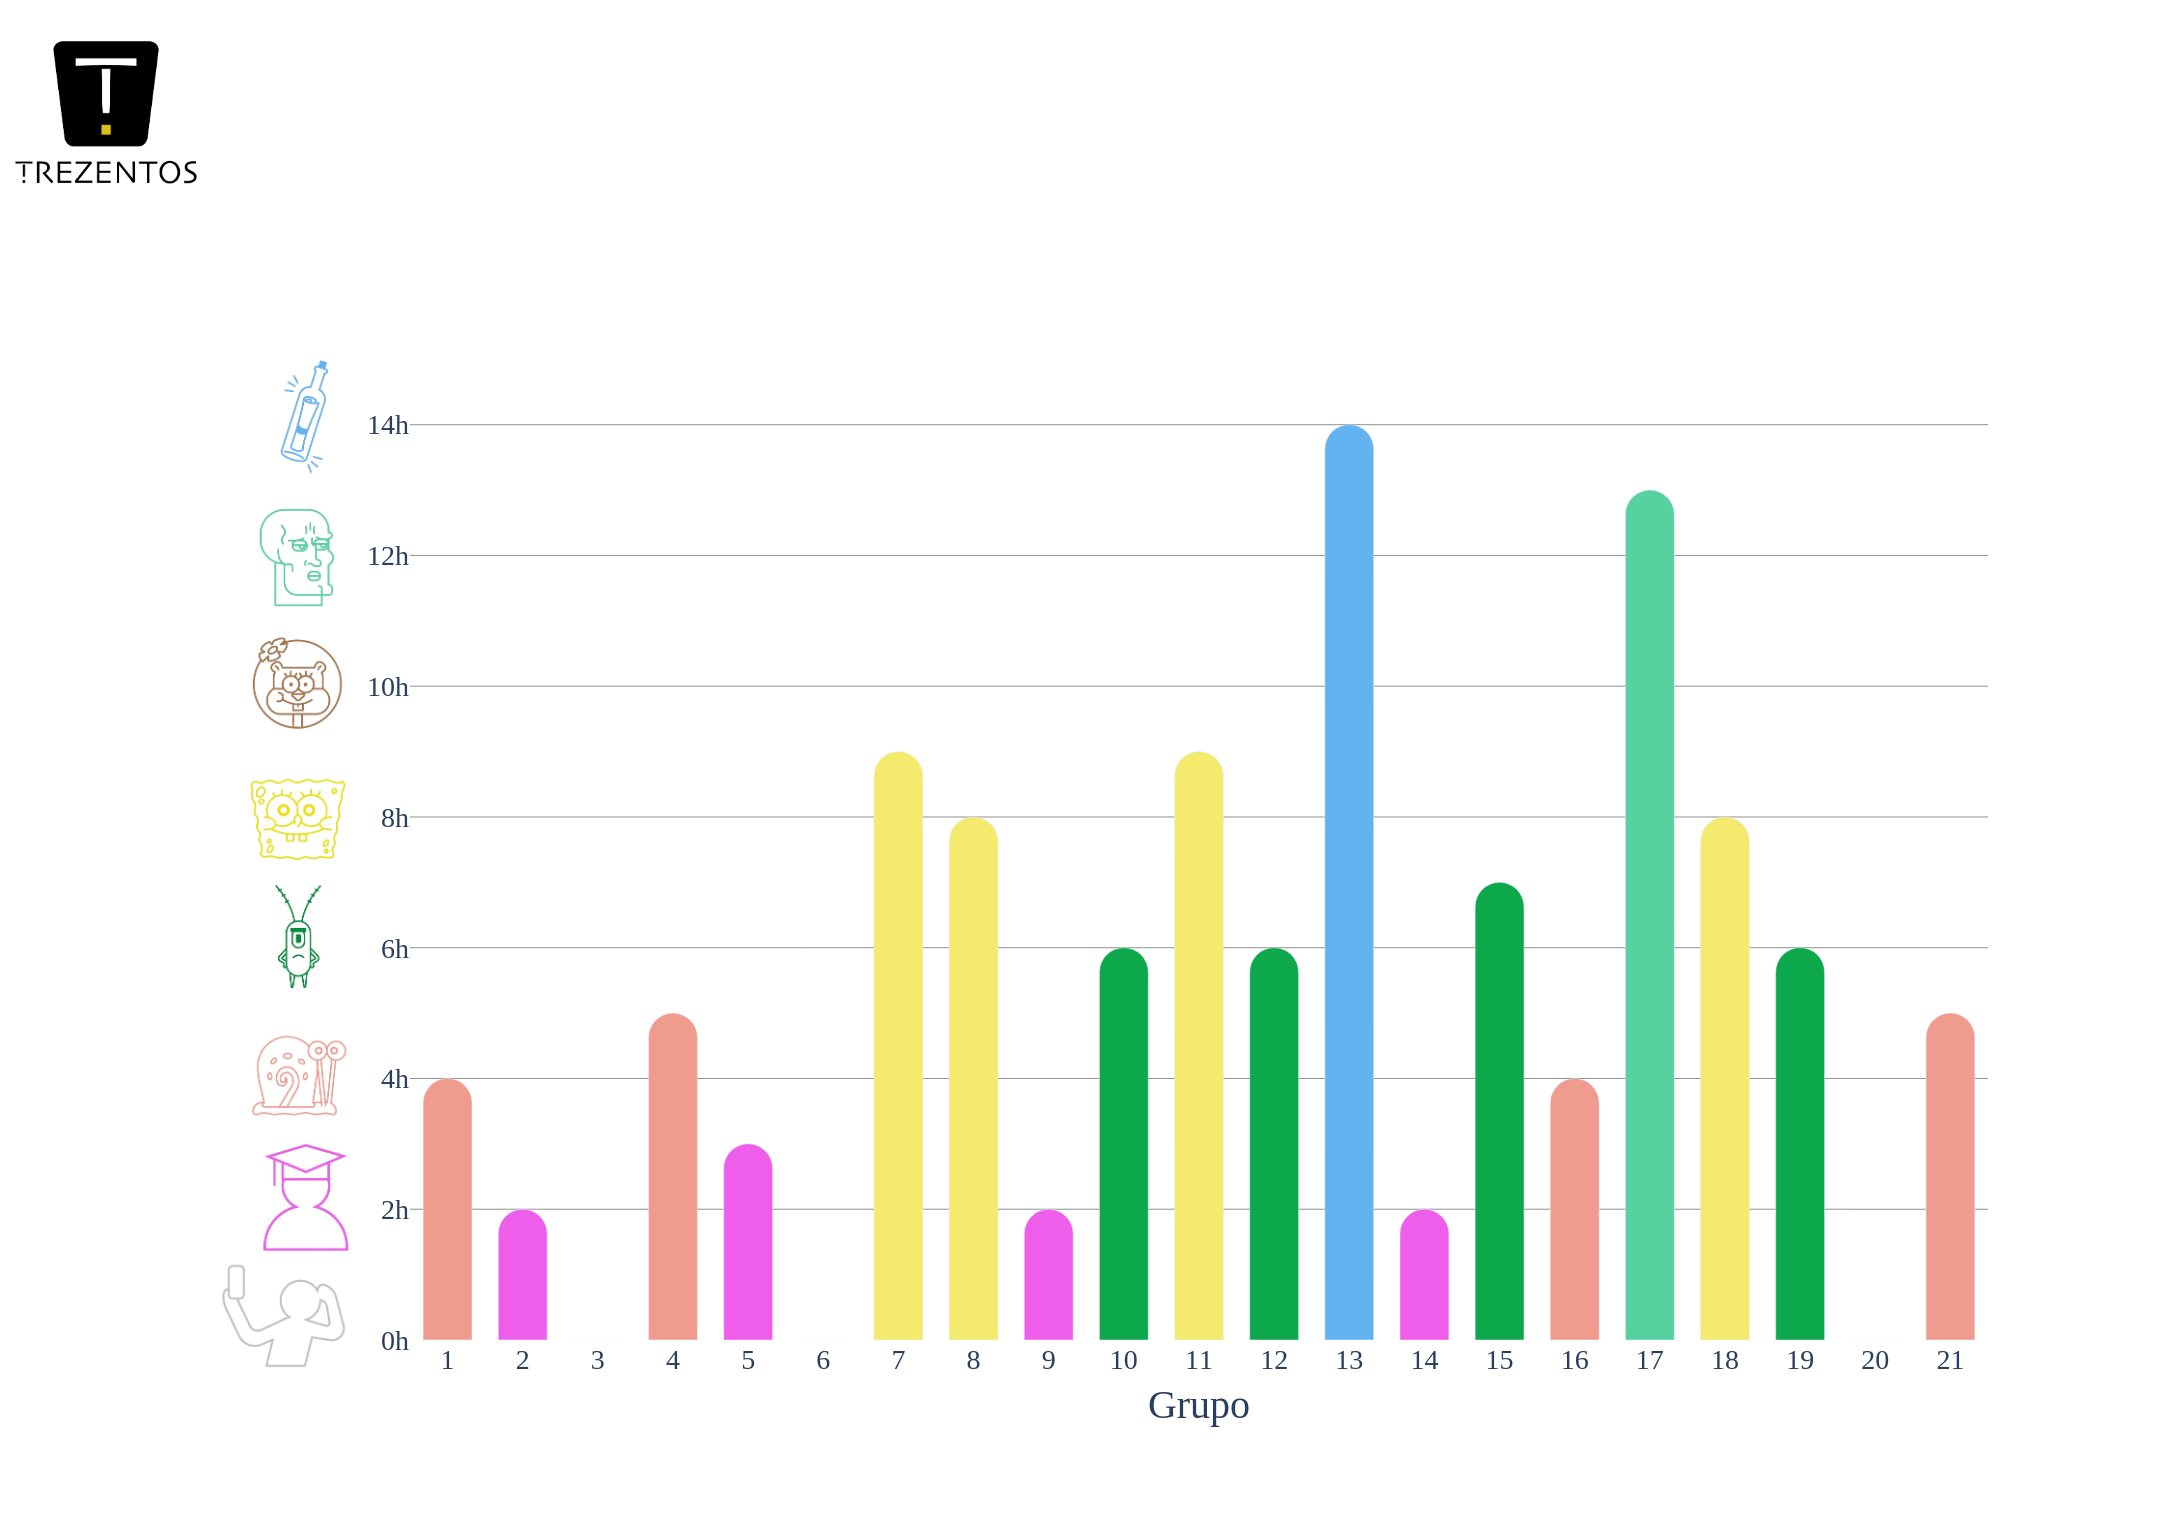
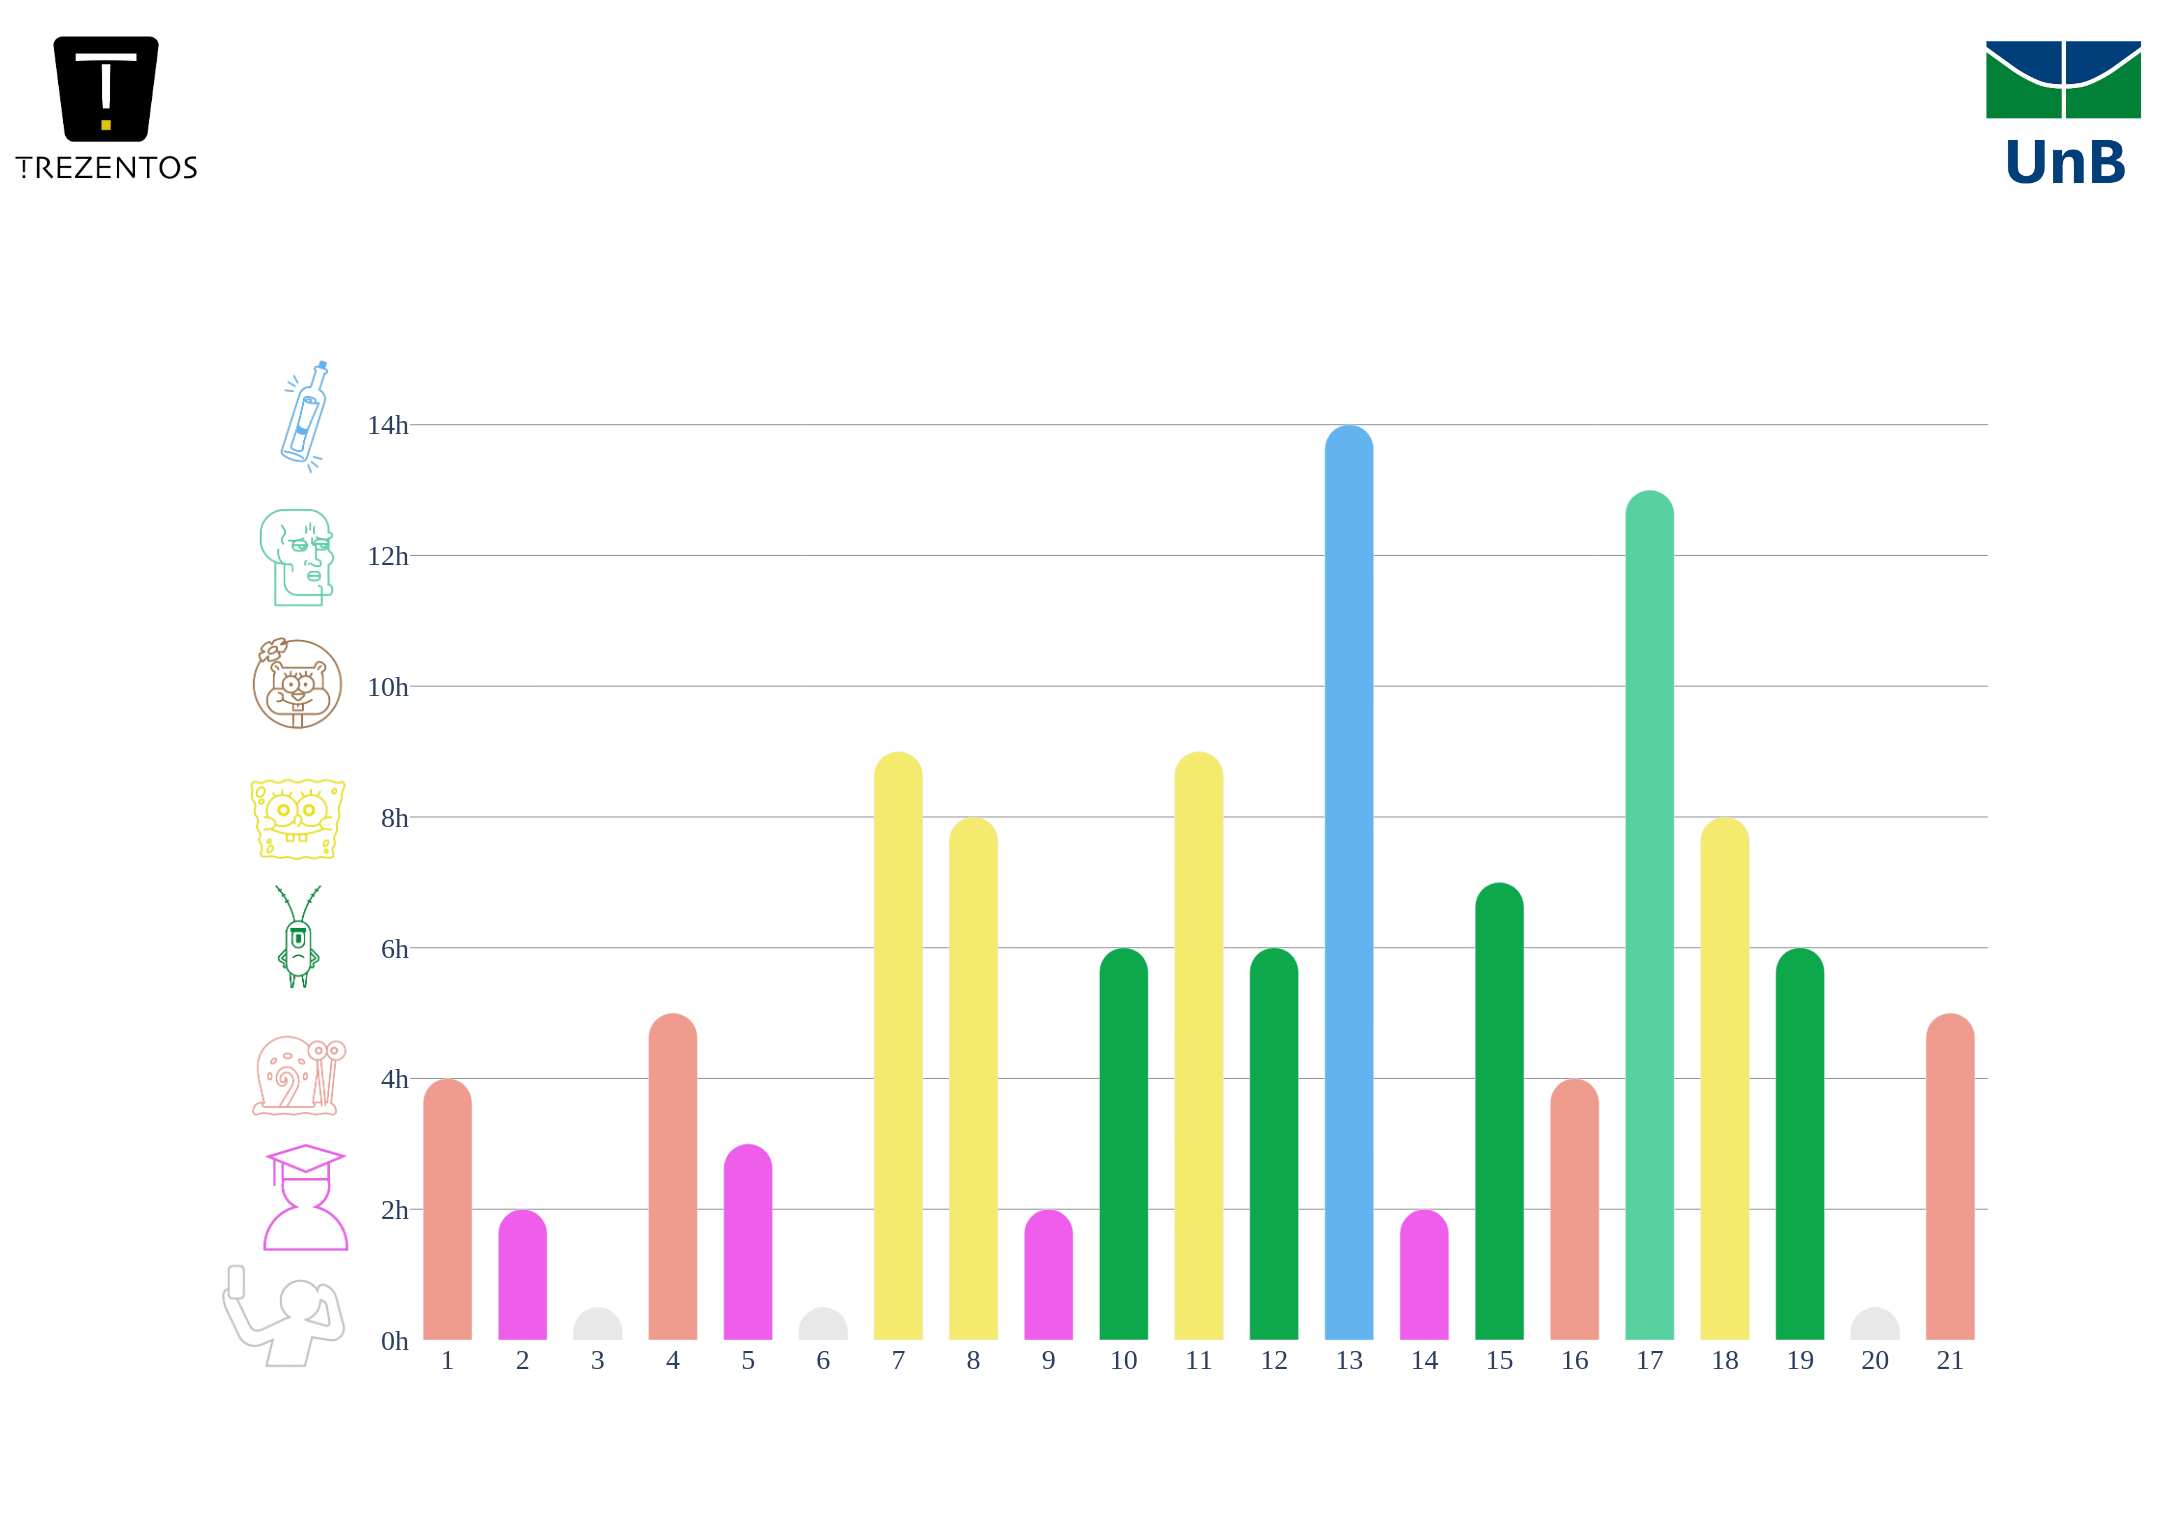
.

diff --git a/gerando_grafico_base.py b/gerando_grafico_base.py
@@ -14,6 +14,12 @@ porcent_graf_dias = (dia_atual / dias_totais) * 30
 x_data = df.iloc[:, 0].tolist()  # Primeira coluna
 y_data = df.iloc[:, 1].tolist()  # Segunda coluna
 
+#caso o valor do grupo seja igual a zero
+# Verifique quais elementos são iguais a 0
+for i in range(len(y_data)):
+    if y_data[i] == 0:
+        y_data[i] += 0.5
+
 # Definir a largura e a altura da figura
 largura = 2173*resol  # Defina o valor desejado
 altura = 1524*resol  # Defina o valor desejado
@@ -47,7 +53,7 @@ fig = go.Figure(data=go.Bar(x=x_data, y=y_data, marker=dict(color=cores, cornerr
 fig.update_layout(
     plot_bgcolor='white',
 
-    xaxis_title="Grupo",
+    xaxis_title="",
     yaxis_title="",
     title="",
     yaxis=dict(range=[0, 14.5],
@@ -69,16 +75,34 @@ fig.update_layout(
 )
 
 # Adicionar as imagens
+
+
+# Obtém o diretório atual do script
+current_directory = os.path.dirname(os.path.abspath(__file__))
+
+# Constrói os caminhos relativos à pasta "bob_esponja"
+path_imagem_0hour = os.path.join(current_directory, 'Bob_esponja_assets', '0hours.png')
+path_imagem_2hour = os.path.join(current_directory, 'Bob_esponja_assets', '2hours.png')
+path_imagem_4hour = os.path.join(current_directory, 'Bob_esponja_assets', '4hours.png')
+path_imagem_6hour = os.path.join(current_directory, 'Bob_esponja_assets', '6hours.png')
+path_imagem_8hour = os.path.join(current_directory, 'Bob_esponja_assets', '8hours.png')
+path_imagem_10hour = os.path.join(current_directory, 'Bob_esponja_assets', '10hours.png')
+path_imagem_12hour = os.path.join(current_directory, 'Bob_esponja_assets', '12hours.png')
+path_imagem_14hour = os.path.join(current_directory, 'Bob_esponja_assets', '14hours.png')
+path_imagem_logounb = os.path.join(current_directory, 'demais_assets', 'logo_unb.png')
+path_imagem_logotrezentos = os.path.join(current_directory, 'demais_assets', 'trezentos.png')
+
 imagens = [
-    ("https://lh3.googleusercontent.com/u/0/drive-viewer/AKGpihZLfn-QAL8Q1_SHqkxDAerl4NSpaMrSCtUsh2-UHaOXT8cmW6YlpOC16wAgJuXPY8plRJYr7NKzQTPmv5kioWXHfbMVJawcNDc=w1175-h893", -0.12*linha_grade, -0.05),
-    ("https://lh3.googleusercontent.com/u/0/drive-viewer/AKGpihZMmgOvZYv7I-rmA68cLumTUqWM57Y0Qhf9kAlg8q2FfbByIJIWAWm_sB2AbuQuo6djW6Kvt9H51iyh8VJlHCoF8Ek0QMvGm9c=w1920-h968", -0.11*linha_grade, 0.08),
-    ("https://lh3.googleusercontent.com/u/0/drive-viewer/AKGpihYpG9zfwXVWB7Sa-E3wmQqF_XPRfsJDZjQ9Kqn4_YUPHEmklYh_jdFzxEmgS9dBd04eqRHirqXaUVbbLSVpJ6Osm8ZCUtl5FuA=w1920-h298", -0.11*linha_grade, 0.21),
-    ("https://lh3.googleusercontent.com/u/0/drive-viewer/AKGpihakNsQT-BHw26LHyERPjQW6bYUuJ2dA5p8eAzqW1G1-icnAYEi_9uOdTccUPRC010z2yGlz0ki9WNzoq2GEdmDtO0yB3PXQab8=w1920-h927", -0.115*linha_grade, 0.35),
-    ("https://lh3.googleusercontent.com/u/0/drive-viewer/AKGpihbkqmnR5NJ8nPmUl0ikwkCtxcmIrmg8-Bws4ENXc2qYxJ_HG4Qee_F6v9oJQBkXf8Pra_QGE43bJlBQ_8_qH-Da5_3hX4vxxKk=w1920-h968", -0.1115*linha_grade, 0.48),
-    ("https://lh3.googleusercontent.com/u/0/drive-viewer/AKGpihb1MnjKMi7wq4CuWidnVKHK4PI_wWq-7m1OvBIOBg1yJ32Dx6kRarXP_wG13PHQzazknuZgF35oDXa7t24UxYwmy5CI19hL9g=w1920-h968", -0.115*linha_grade, 0.62),
-    ("https://lh3.googleusercontent.com/u/0/drive-viewer/AKGpihYM70mWQfdpEeFLvs-WqnbFIhbLdIjJ-myDwSQ26ewpP9NNakzGpRGAyzOV0TeNTZeVoYKQspRjlgtWF6t85wBtybMKnnxzfb0=w1920-h968", -0.1115*linha_grade, 0.75),
-    ("https://lh3.googleusercontent.com/u/0/drive-viewer/AKGpihYhsGzTGZbVoBMshdjmCOKVJvTykFhYb-zQ8lVappNN2vhae4896hkCrfehvCqwnQkoFQCwfoAWWF4QSEhnaNDc2DUCVdnZXA=w1920-h968", -0.105*linha_grade, 0.9),
-    ("https://lh3.googleusercontent.com/u/0/drive-viewer/AKGpihZBq1w-NiUbVSw8fzE3UBCiAbDK6uvI2CTXojLYkFM2cwAXBenfhAa7mDjJ6Ceqn5mdwNLqHCEZyWBXBTBvvtZMamL1zVEIIro=w1920-h968", -0.25, 1.22)
+    (path_imagem_0hour, -0.12*linha_grade, -0.05),
+    (path_imagem_2hour, -0.11*linha_grade, 0.08),
+    (path_imagem_4hour, -0.11*linha_grade, 0.21),
+    (path_imagem_6hour, -0.115*linha_grade, 0.35),
+    (path_imagem_8hour, -0.1115*linha_grade, 0.48),
+    (path_imagem_10hour, -0.115*linha_grade, 0.62),
+    (path_imagem_12hour, -0.1115*linha_grade, 0.75),
+    (path_imagem_14hour, -0.105*linha_grade, 0.9),
+    (path_imagem_logotrezentos, -0.25, 1.225),
+    (path_imagem_logounb, 0.999, 1.22)
 ]
 
 for imagem_url, x, y in imagens:

diff --git a/main.py b/main.py
@@ -3,7 +3,6 @@ import gerando_grafico_base, gerando_grafico_media_turma,backside_media_generato
 import resize_image as ri
 import os
 
-import os
 
 # Obtém o diretório atual do script
 current_directory = os.path.dirname(os.path.abspath(__file__))
@@ -38,6 +37,9 @@ font1 = ImageFont.truetype(font_path, font_size)
 font_size = 40
 font2 = ImageFont.truetype(font_path, font_size)
 
+font_size = 30
+font3 = ImageFont.truetype(font_path, font_size)
+
 text1 = "Média da"
 pos1 = (70, 1350)
 
@@ -45,16 +47,19 @@ text2 = "Turma"
 pos2 = (85, 1375)
 
 text3 = "Cálculo 1 com Professor Ricardo Ramos Fragelli"
-pos3 = (300+400, 75)
+pos3 = (300+350, 75)
 
 text4 = "1 semestre de 2024 - Segunda prova"
-pos4 = (350+450, 125)
+pos4 = (350+400, 125)
 
 text5 = "Dia  " + str(gerando_grafico_base.dia_atual)
 pos5 = (120, 220)
 
 text6 = "Entrega"
 pos6 = (2040, 220)
+
+text7 = "Grupo"
+pos7 = (1086, 1375)
 
 text_color = "#000000" #preto
 # Adiciona o texto à imagem
@@ -64,6 +69,7 @@ draw.text( pos3 , text3, fill=text_color, font=font2)
 draw.text( pos4 , text4, fill=text_color, font=font2)
 draw.text( pos5 , text5, fill=text_color, font=font1)
 draw.text( pos6 , text6, fill=text_color, font=font1)
+draw.text( pos7 , text7, fill=text_color, font=font3)
 
 # Corta a imagem para a caixa delimitadora
 media = media.crop(media.getbbox())
